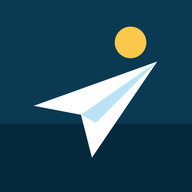
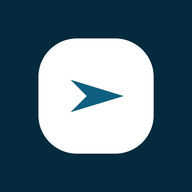
Samakan ikon dan warna layar pembuka dengan layar muat

Changed region(s): [[0.1562, 0.125, 0.8125, 0.8125]]

diff --git a/src/app/manifest.ts b/src/app/manifest.ts
@@ -14,7 +14,7 @@ export default function manifest(): MetadataRoute.Manifest {
     display: "standalone",
     orientation: "portrait",
     categories: ["travel", "productivity"],
-    background_color: "#0a3a52",
+    background_color: "#062a3d",
     theme_color: "#0a3a52",
     icons: [
       { src: "/icon-192.png", sizes: "192x192", type: "image/png" },
